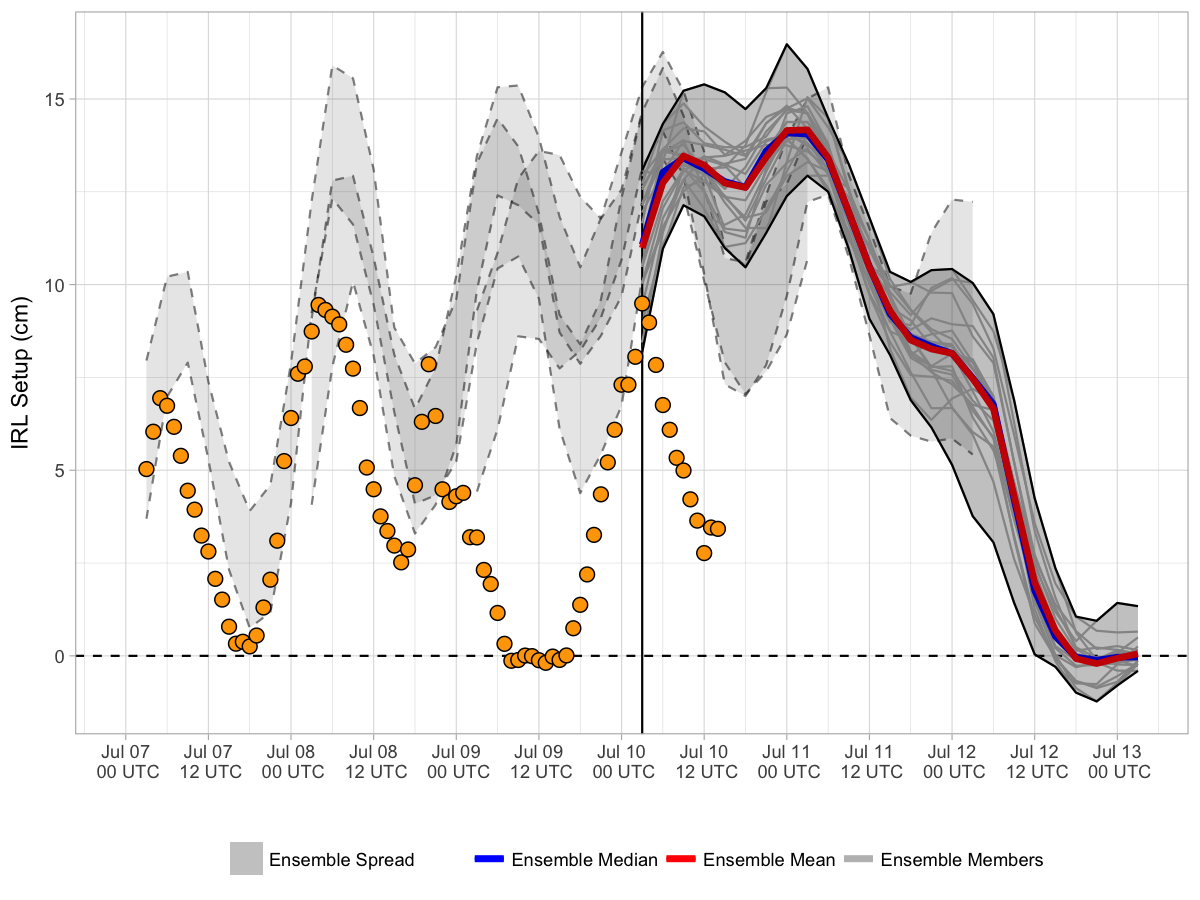
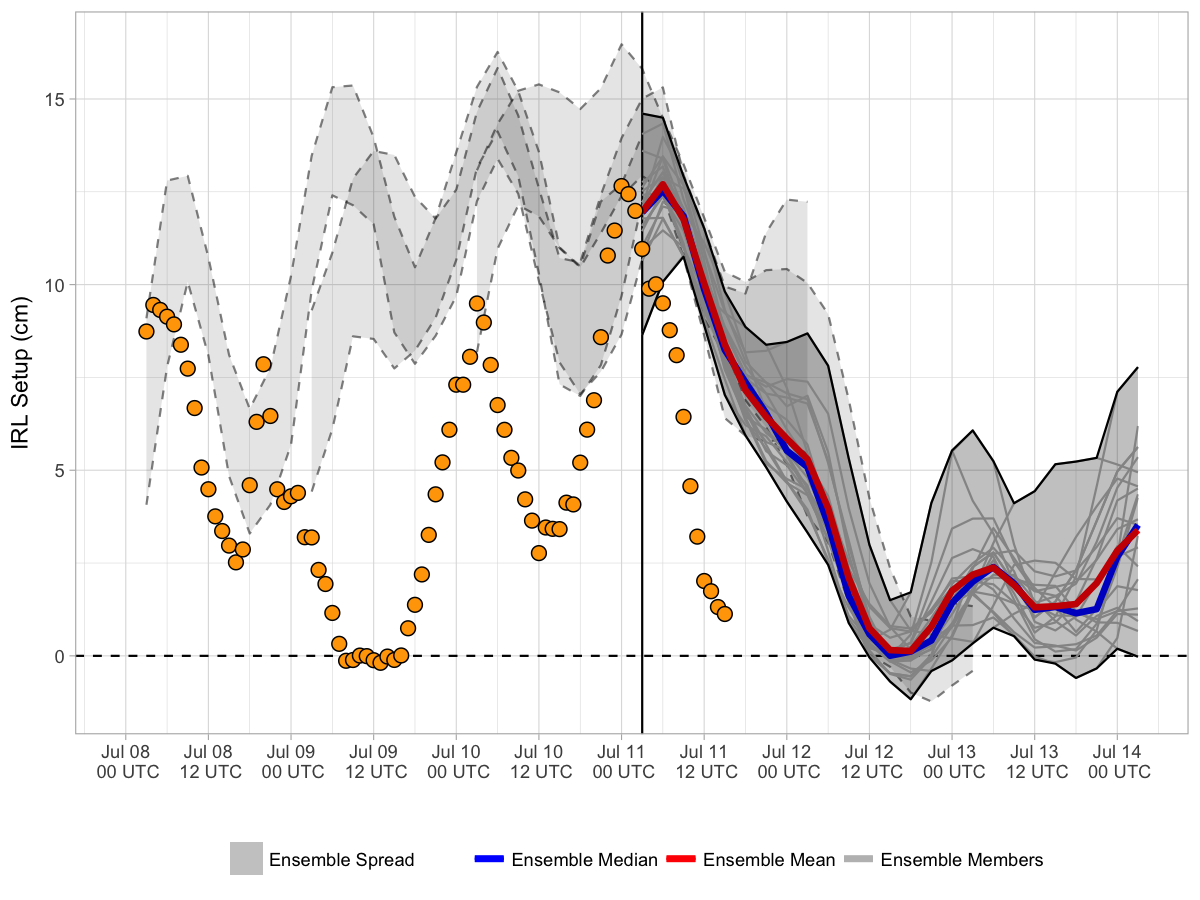
20170711 forecast update

diff --git a/docs/index.md b/docs/index.md
@@ -3,7 +3,7 @@ Current Forecast
 
 [![](img/raw_setup.png)](https://bhlmn.github.io/IRLSetup/img/raw_setup.png)
 
-> Forecast valid 2017-07-10 10:53:55.
+> Forecast valid 2017-07-11 11:50:36.
 
 Explanation
 -----------
@@ -17,7 +17,7 @@ star), and Sebastian, FL (white star). In general, southerly (northerly)
 winds result in increased water elevation near Titusville (Sebastian)
 and positive (negative) setup.
 
-The current (18 UTC 2017-07-09) 0.5° [Global Ensemble Forecast System
+The current (18 UTC 2017-07-10) 0.5° [Global Ensemble Forecast System
 (GEFS)](https://www.ncdc.noaa.gov/data-access/model-data/model-datasets/global-ensemble-forecast-system-gefs)
 mean and median forecasts of setup are represented by the red and blue
 curves, respectively. Ensemble spread from the current and three
